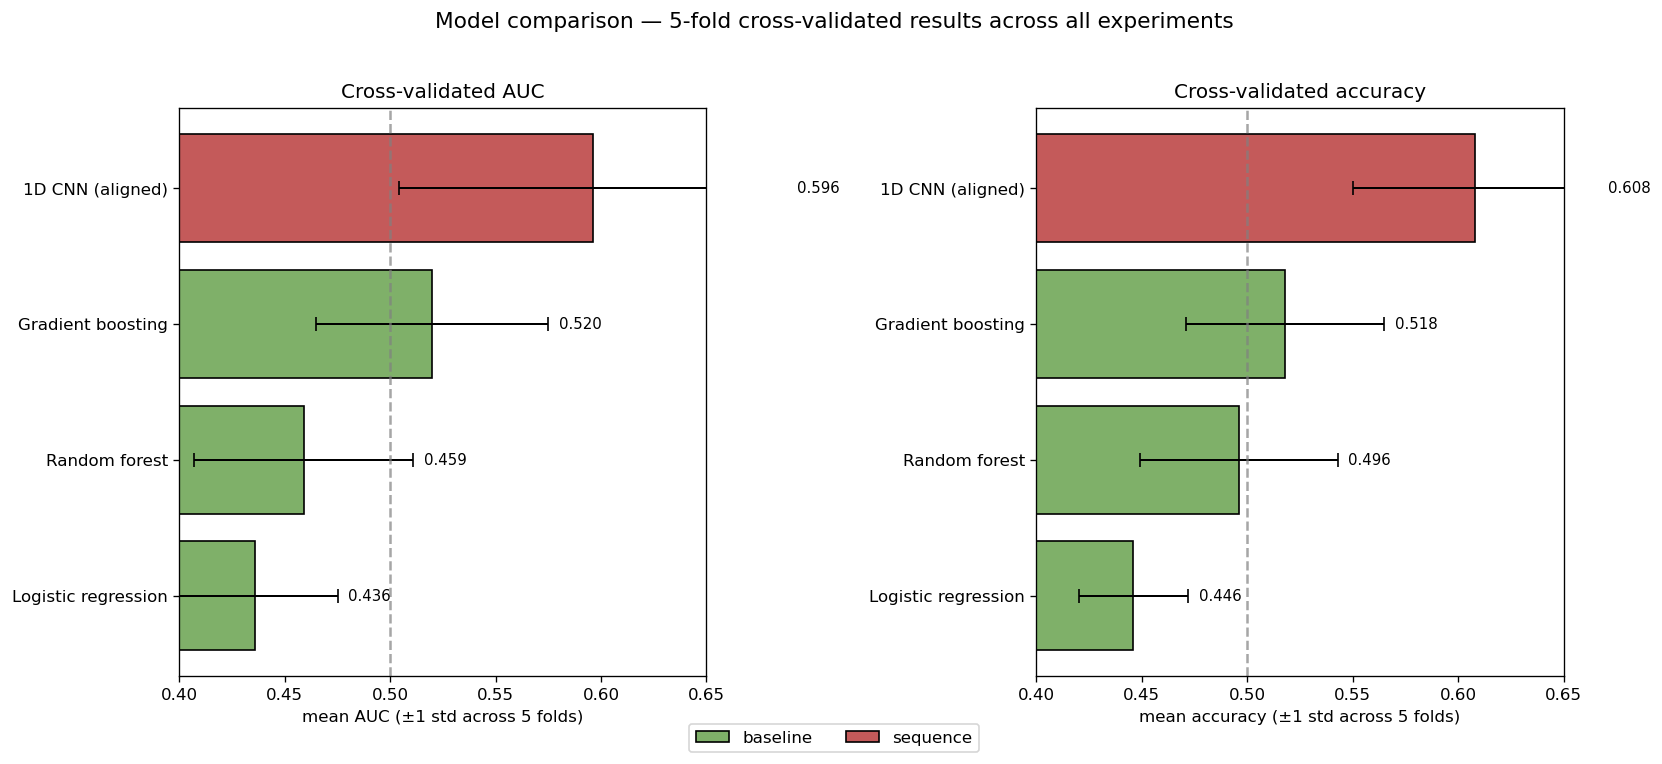
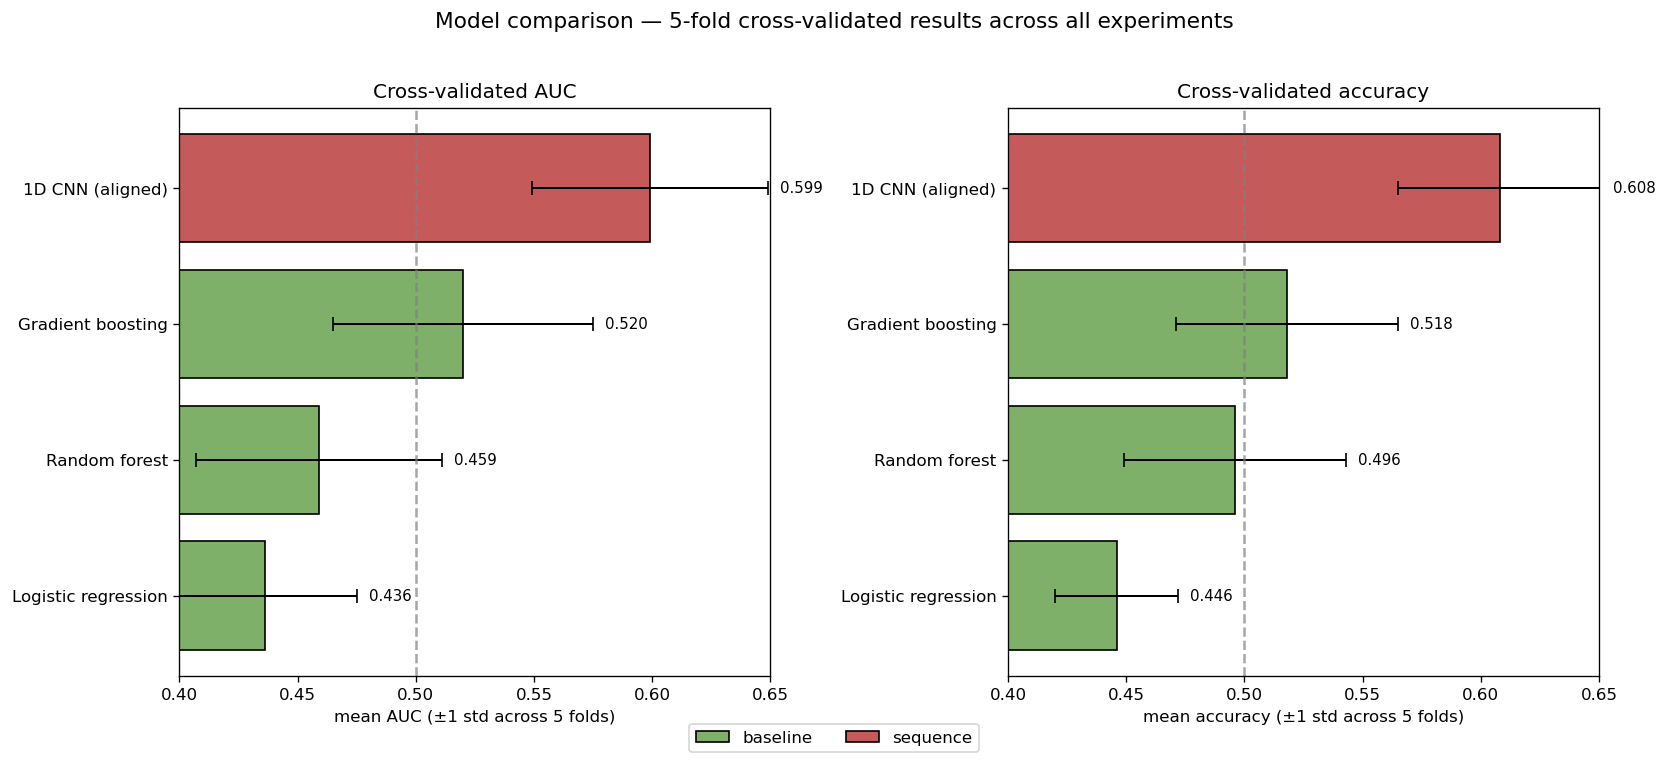
improved train test gap by using bilateral symmetry to get more data

diff --git a/model.py b/model.py
@@ -73,6 +73,25 @@ class ShotDataset(Dataset):
 RELEASE_TARGET_FRAME = 15   # frame index where peak elbow extension lands after alignment
 
 
+def mirror_flip(X):
+    # Mirror each shot about the y-axis: negate x coords and swap left/right joints.
+    # The shooter is right-handed, so the flipped shot is a synthetic left-handed one
+    # with the same make/miss label — bilateral symmetry means doubling the dataset
+    # this way is free training data. Channel layout per frame (36 ch): positions live
+    # in [0..17] as 9 joints × (x, y) interleaved, velocities in [18..35] same layout.
+    JOINT_SWAPS = [(1, 2), (3, 4), (5, 6), (7, 8)]   # L↔R for shoulder, elbow, wrist, hip
+    flipped = X.copy()
+    for offset in (0, 18):
+        for l, r in JOINT_SWAPS:
+            l_x, l_y = offset + l*2, offset + l*2 + 1
+            r_x, r_y = offset + r*2, offset + r*2 + 1
+            flipped[:, :, [l_x, l_y, r_x, r_y]] = X[:, :, [r_x, r_y, l_x, l_y]]
+    # Negate every x channel (even indices) across both positions and velocities
+    x_channels = list(range(0, 36, 2))
+    flipped[:, :, x_channels] *= -1
+    return flipped
+
+
 def realign_to_release(X, release_frames, target=RELEASE_TARGET_FRAME):
     # Shift each shot so peak elbow extension lands at the same time index. Different
     # shots have release at different positions in the original window (motion-peak
@@ -113,6 +132,11 @@ def load_data():
 
 
 def train_fold(X_train, y_train, X_test, y_test):
+    # Double the training fold with mirror-flipped copies. Test fold stays untouched
+    # so we evaluate on real shots only.
+    X_train = np.concatenate([X_train, mirror_flip(X_train)], axis=0)
+    y_train = np.concatenate([y_train, y_train], axis=0)
+
     train_loader = DataLoader(
         ShotDataset(X_train, y_train, augment=True),
         batch_size=BATCH_SIZE, shuffle=True,

diff --git a/results_summary.py b/results_summary.py
@@ -17,7 +17,7 @@ RESULTS = [
     ('Logistic regression', 'baseline',  222, 0.436, 0.039, 0.446, 0.026),
     ('Random forest',       'baseline',  222, 0.459, 0.052, 0.496, 0.047),
     ('Gradient boosting',   'baseline',  222, 0.520, 0.055, 0.518, 0.047),
-    ('1D CNN (aligned)',    'sequence',  222, 0.596, 0.092, 0.608, 0.058),
+    ('1D CNN (aligned)',    'sequence',  222, 0.599, 0.050, 0.608, 0.043),
 ]
 
 df = pd.DataFrame(RESULTS, columns=['model', 'family', 'n_shots',

diff --git a/figs/all_models_results.md b/figs/all_models_results.md
@@ -1,6 +1,6 @@
 | Model | Dataset | AUC (CV) | Accuracy (CV) |
 |---|---|---|---|
-| 1D CNN (aligned) | 222 shots | 0.596 ± 0.092 | 0.608 ± 0.058 |
+| 1D CNN (aligned) | 222 shots | 0.599 ± 0.050 | 0.608 ± 0.043 |
 | Gradient boosting | 222 shots | 0.520 ± 0.055 | 0.518 ± 0.047 |
 | Random forest | 222 shots | 0.459 ± 0.052 | 0.496 ± 0.047 |
 | Logistic regression | 222 shots | 0.436 ± 0.039 | 0.446 ± 0.026 |
